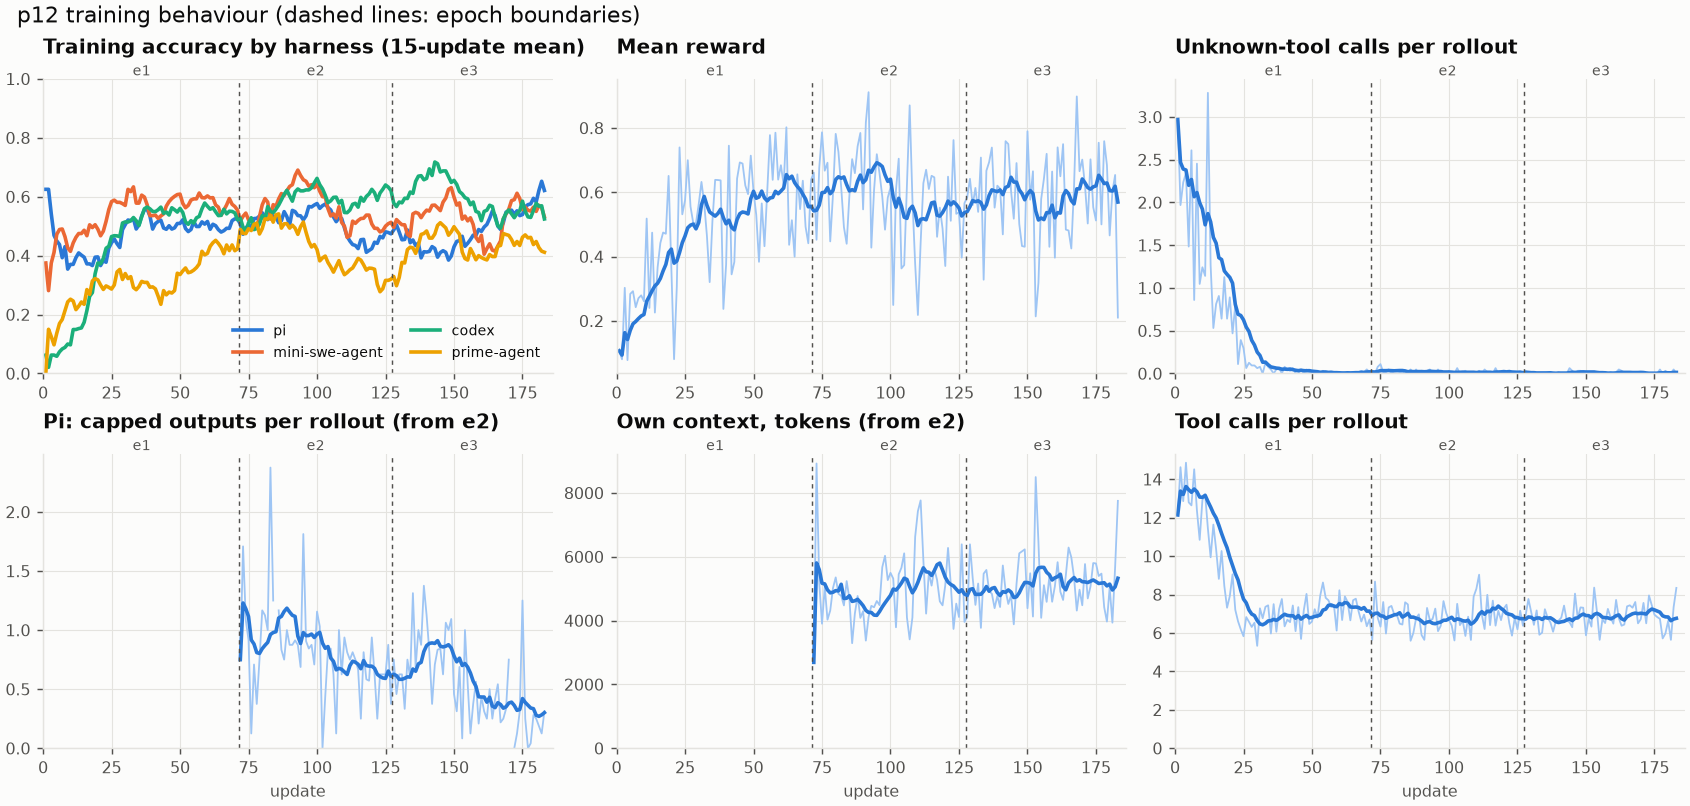
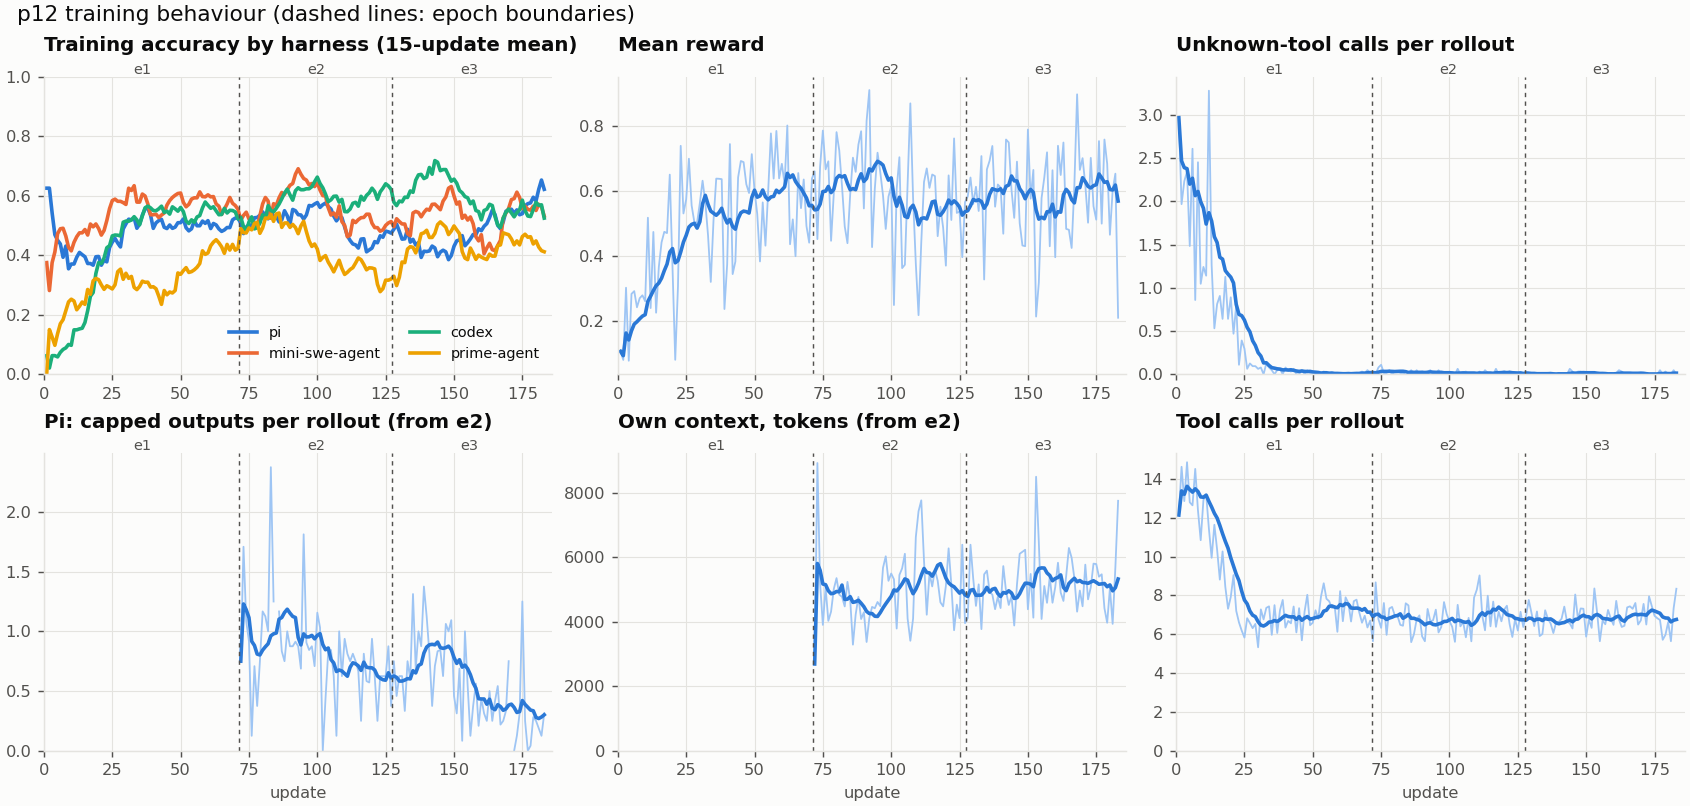
README: credit Adithya's multi-harness RL blog and open-source data; test250 plot axis from 35%

diff --git a/analysis/plot_p12.py b/analysis/plot_p12.py
@@ -116,9 +116,9 @@ def test250():
         if h in blog:
             ax.plot([i - 0.45, i + 0.45], [blog[h]] * 2, color=INK, lw=1.5, ls=(0, (4, 2)))
     ax.plot([], [], color=INK, lw=1.5, ls=(0, (4, 2)), label="blog (128k context)")
-    ax.set_xticks(range(len(hs)), names); ax.set_ylim(0, 75); ax.set_ylabel("pass@1 (%)")
+    ax.set_xticks(range(len(hs)), names); ax.set_ylim(35, 70); ax.set_ylabel("pass@1 (%)")
     ax.grid(axis="x", visible=False); ax.legend(frameon=False, ncol=4, loc="upper left")
-    ax.set_title("test250 pass@1 by epoch (1 attempt per task, about ±3 pts; * = never trained on)", loc="left")
+    ax.set_title("test250 pass@1 by epoch (axis starts at 35%; 1 attempt per task, about ±3 pts; * = never trained on)", loc="left")
     fig.savefig(f"{OUT}/p12_test250.png", dpi=130); plt.close(fig)
 
 

diff --git a/README.md b/README.md
@@ -5,7 +5,7 @@ data-agent tasks: each task gives Kaggle data files and a question; the agent ex
 sandbox and writes one answer, which a grader checks.
 
 Constraints: **one NVIDIA L4 (23 GB)** for both sampling and training, FP8 base weights, 24k context
-(the reference blog uses 128k), thinking off, no prompt hints.
+(the reference [multi-harness RL blog](https://huggingface.co/spaces/FineEnvs/multi-harness-rl) uses 128k), thinking off, no prompt hints.
 
 ## Results
 
@@ -170,3 +170,14 @@ EPOCH_STOP=2000 ./run_train_p12.sh
 EPOCH_STOP=3000 ./run_train_p12.sh
 # stop: touch runs/p12_mh4_r32/STOP; resume: re-run the same command
 ```
+
+## Acknowledgements
+
+- **Adithya's [multi-harness RL blog](https://huggingface.co/spaces/FineEnvs/multi-harness-rl)** (FineEnvs) is the reference this work builds on and compares against:
+  the idea of training one model across several agent harnesses, the test250 split, the blog scores in the tables
+  above, and the tool-efficiency reward term (0.1 x 15 / (15 + tool calls)).
+- **Open-source data and docs:** the FineEnvs / SmolDataEnvs data-agent tasks and grader, their documentation, and
+  the open-source harnesses (Pi, mini-swe-agent, Codex CLI, Prime Agent, OpenCode, Claude Code) and Harbor sandboxes.
+- **Our own work:** the single-L4 FP8 training setup, the training runs and experiments (p3-p12), the reward
+  changes (unknown-tool penalty, capped-output penalty, graded context bonus), the task-selection rules, the
+  grader fixes, and all analysis in this repo and EXPERIMENTS.md.
